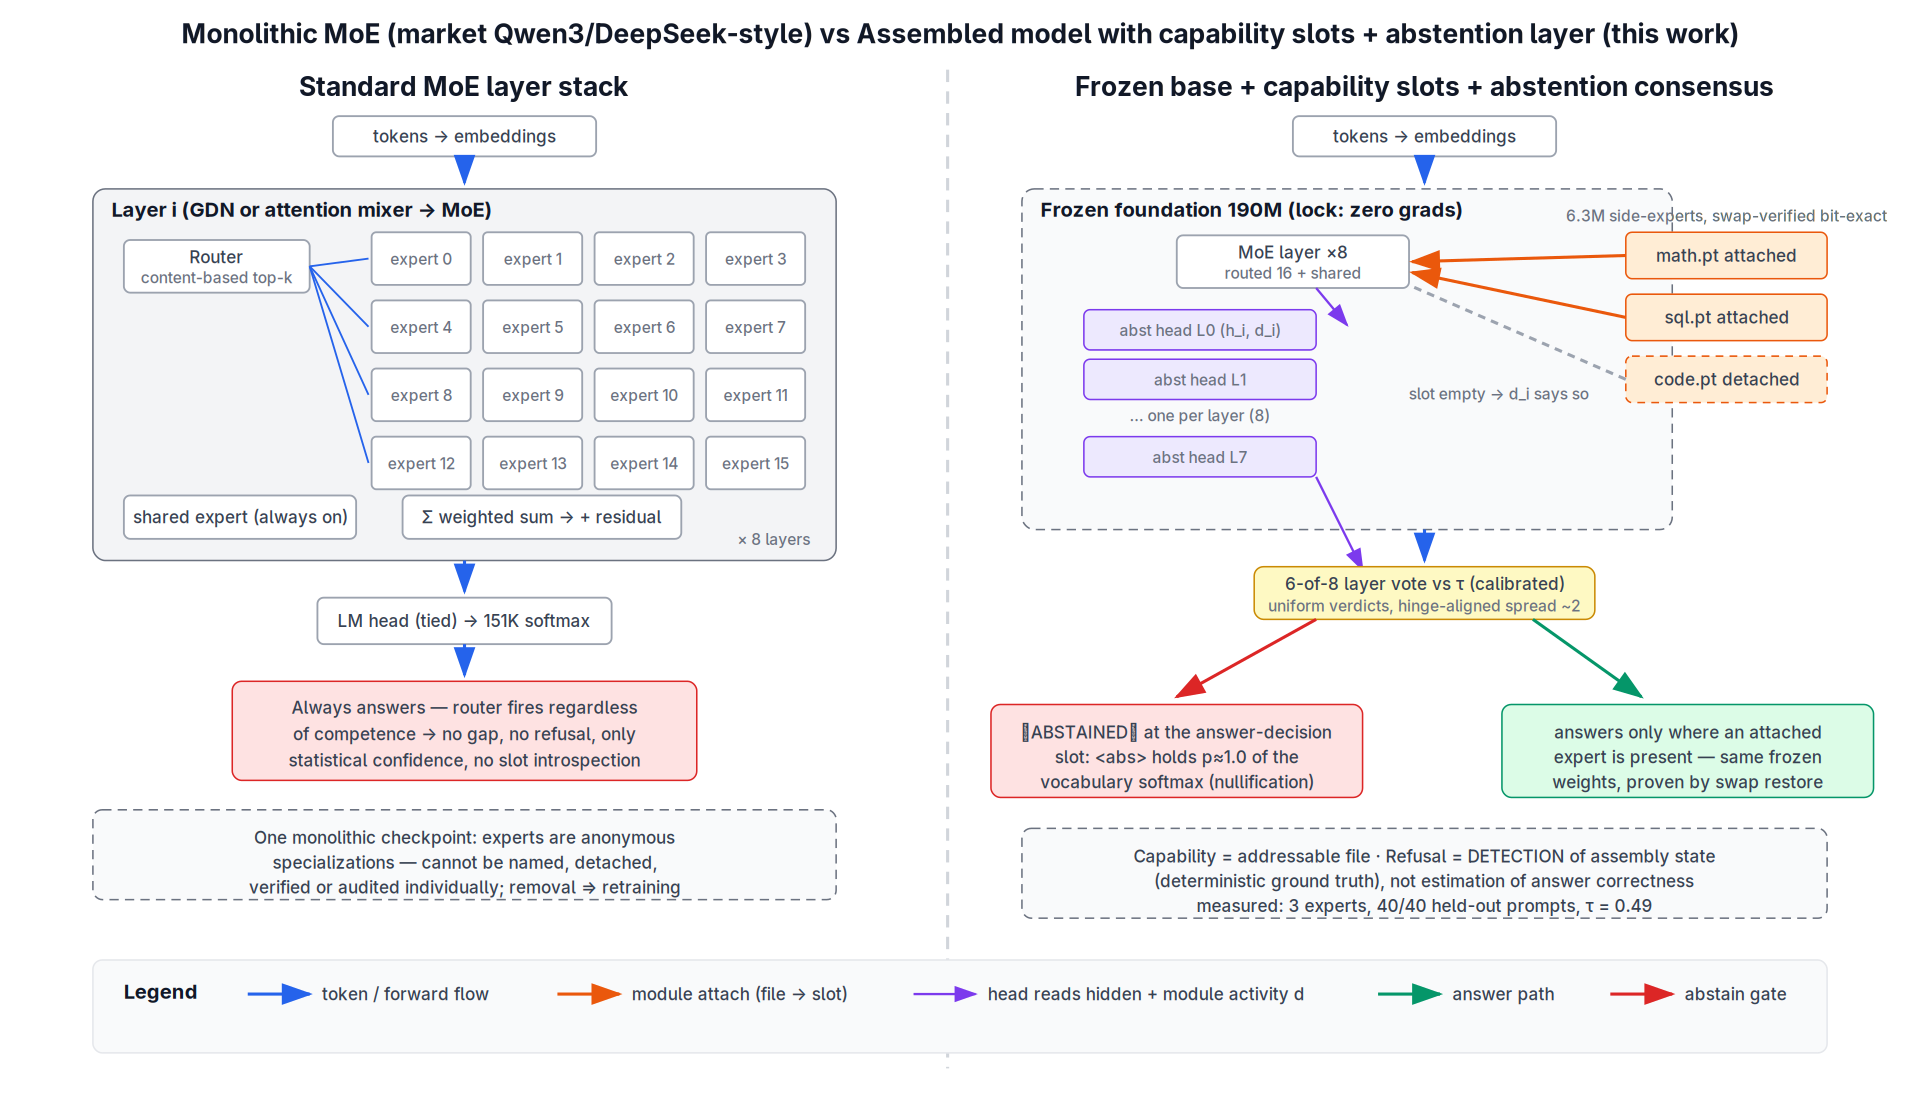
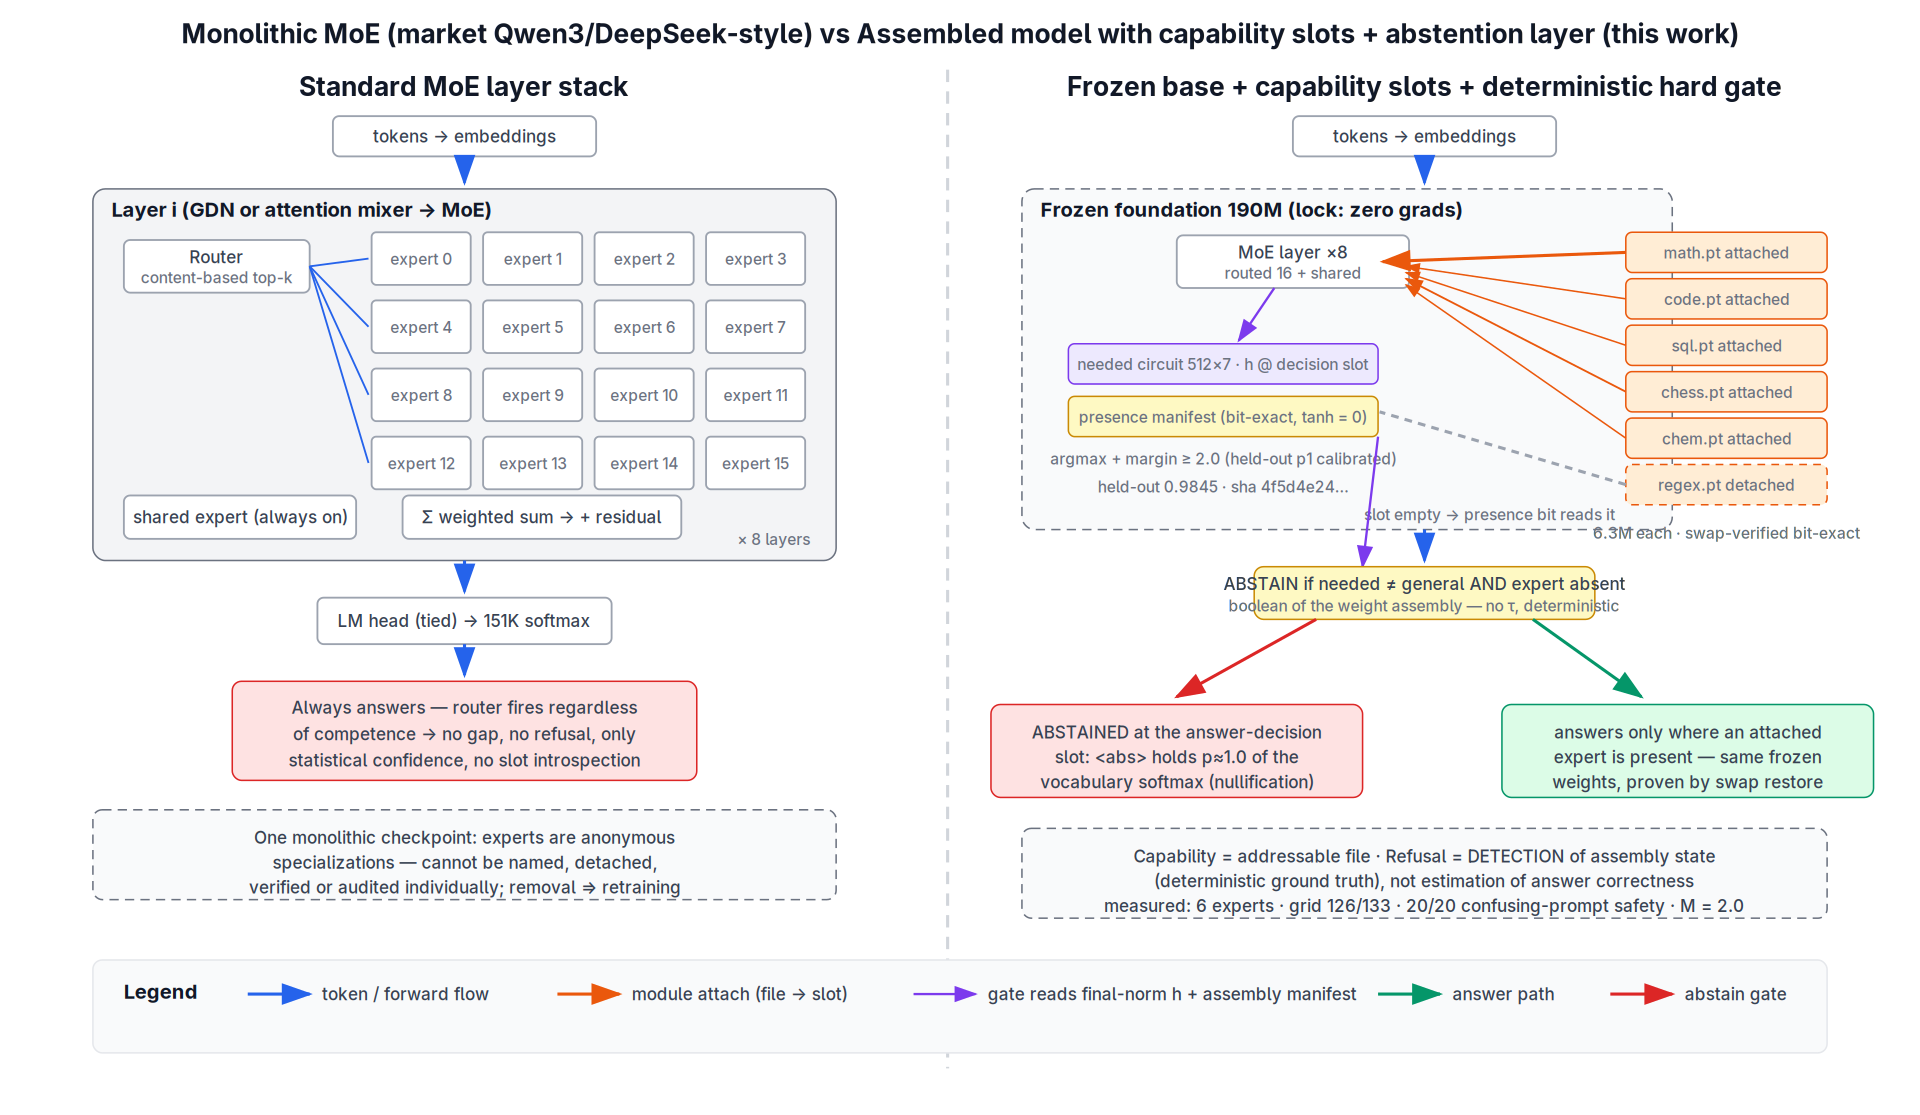
README+CHANGELOG: six-expert changelog, architecture diagram updated to v15 hard gate

diff --git a/CHANGELOG.md b/CHANGELOG.md
@@ -1,0 +1,87 @@
+# Changelog
+
+All milestones below were **measured**, not estimated; raw JSONs live in
+`results/`. Versions refer to the experiment ladder in `src/`.
+
+## 2026-11-10 — v15: six experts + shipped deterministic gate (current)
+
+**New capability experts (batch-1), same frozen base, same proof protocol:**
+
+| expert | dataset | loss off → on | gate-rezero purity | swap-restore |
+|---|---|---|---|---|
+| chess | Lichess/chess-puzzles | 11.1713 → 3.7844 | bit-exact | bit-exact |
+| chem | maykcaldas/smiles-transformers | 12.5142 → 7.3020 | bit-exact | bit-exact |
+| regex | qgallouedec/guess-the-regex | 12.5395 → 1.7448 | bit-exact | bit-exact |
+
+Together with the earlier math (11.15 → 7.17), code (9.54 → 6.68) and sql
+(11.75 → 5.44) modules, the library is now **6 named, file-addressable
+experts**, each independently attachable/detachable with zero training.
+
+**Gate architecture change (v13 → v15, shipped):**
+- circuit retrained from scratch for 7 classes: `nn.Linear(512, 7)` on the
+  final-norm hidden state at the answer-decision slot, collected across all
+  7 module worlds; held-out accuracy **0.9845**, sha256 `4f5d4e24ebb7746c`.
+- commit margin **re-calibrated on held-out data only** (never on the eval
+  grid): true-positive domain margins p1 = 1.96 → **M = 2.0**. The previous
+  M = 4 was a 4-class artifact; at 7-way arity it silently blocked correct
+  commits (chem never answered).
+- decision rule unchanged: `ABSTAIN ⟺ needed ≠ general ∧ ¬present(needed)`
+  — presence is a bit-exact boolean of the weight assembly (detached tanh
+  gates measure exactly 0.0), so refusal is detection, not estimation.
+
+**Measured results:** grid **126/133** (7 assemblies, replayed 3× bit-identical);
+confusing-prompt stress **20/20 abstain** on the empty assembly including 8 new
+cross-domain traps; 5 risky commitments with experts attached (documented trade
+of M 4 → 2). Known residual: hand-written SQL prompt templates drift from the
+training-pool shape and read as `code` → safe over-abstention; pool-shaped held-out
+SQL routes 100 %.
+
+**Repo packaging:** the merged 6-expert bundle (151 MB) exceeds GitHub's
+100 MB file limit — shipped instead as `checkpoints/module_bundles_merged.pt`
+(math/code/sql) + `lib10_chess.pt` + `lib10_chem.pt` + `lib10_regex.pt`;
+the library is their union (`abstention_v15.py` composes them automatically).
+
+## 2026-11-09 — v13 hard gate + v14 negative result
+
+- **v13** replaced the soft per-layer score + threshold τ with the
+  circuit-argmax × presence-boolean hard gate: **40/40** grid (3 experts),
+  determinism 3×, auditable 16-row truth table; OOD cost honestly logged
+  (prose-shaped prompts can mislabel `needed`).
+- Margin sweep on 12 confusing prompts → shipped **v13 + M4** at the time
+  (13 risky commitments remained; risky vs correct margin distributions
+  overlap).
+- **v14** (router-free expert self-verification, no circuit): **failed, 18/40**
+  — kept as a negative result. Lessons: self-confidence is fluency, not
+  verification; and zeroing the v11 soft layer breaks the code module, so
+  capability modules trained in-stack depend on the assembly they live in.
+
+## 2026-11-08/09 — v11 soft gate and ablations
+
+- **v11**: per-layer abstention heads reading hidden state + attached-module
+  activity; two-world byte-identical decision spans; **39/40** grid,
+  40/40 instrumented held-out (`<abs>` p ≈ 1.0000 when firing), τ = 0.49.
+- **v12/v12b** (not shipped): layer-uniform "confident" consensus ablation —
+  spread penalty collapses separation (0.55) or, as a hinge, costs 2-4 grid
+  cells; verdict is hoarded in the max-margin layer.
+
+## 2026-11-07/08 — foundation + surgery
+
+- Mini Qwen3.8-Flash-Next (~196.5 M): 3:1 GDN/attention hybrid, 4-branch
+  gated residuals (HyperConnections-style), fine-grained MoE + shared expert;
+  TinyStories 2000 steps, loss **11.93 → 3.28**.
+- Weight-space surgery: router-entropy profiling, structural expert pruning,
+  clone-injection, task-vector (λ = 0.3) experiments.
+- **v3**: first swappable side-expert bundles (math/code), unit-RMS output +
+  tanh-bounded gates; swap-restore bit-exactness established (7.1725);
+  median-of-demos robustness; expert cosine distance 0.61 (real divergence).
+- sql module added (5.44/11.75, both directions bit-exact).
+
+## Architecture evolution (summary)
+
+| era | refusal mechanism | ground truth |
+|---|---|---|
+| v5–v11 | soft per-layer head + τ | learned score (calibrated) |
+| v12/v12b | + uniformity penalty | learned consensus (rejected) |
+| v13 | linear circuit argmax × presence | assembly = deterministic half |
+| v13+M4 | + top1−top2 margin | held-out calibration (4-class) |
+| **v15** | 7-class circuit, M=2.0 held-out p1 | **assembly + margin (shipped)** |

diff --git a/README.md b/README.md
@@ -10,8 +10,10 @@ gates on whether the competent expert is physically attached**.
 Existing abstention work estimates *what a model knows* (confidence, refusal tuning).
 This experiment implements something different: *which model is currently assembled*.
 Remove an expert module and the model declines to answer; attach it and the same
-frozen weights answer. The refusal decision is made by a trained network layer reading
-module-activity vectors — not by a prompt, not by a threshold on logits.
+frozen weights answer. The refusal decision is a boolean of two things: a trained
+linear circuit on the final hidden state (*needed*) and the bit-exact assembly
+manifest (*present*) — deterministic, auditable, and now scaled to **six experts**
+([CHANGELOG](CHANGELOG.md)).
 
 ![architecture vs market MoE](results/figures/architecture_vs_market_moe.png)
 
@@ -37,6 +39,10 @@ One side-expert per MoE layer (8 layers, ~6.3M trainable, bounded gate), domain-
 | code | 4.83 | 9.24 | **6.68** | — |
 | sql | 6.81 | — | — | **5.44** |
 
+Batch-1 (2026-11-10) adds **chess** 11.17→**3.78**, **chem** 12.51→**7.30**,
+**regex** 12.54→**1.74** — same protocol, same bit-exact purity/swap proofs
+(see *Batch-1: six experts* below).
+
 **Swap proofs (zero training, pure weight file I/O):**
 - restoring the math bundle reproduced **7.1725** bit-exactly;
 - the sql module's gate, re-zeroed, reproduced base loss **11.7497** exactly (nothing
@@ -45,7 +51,7 @@ One side-expert per MoE layer (8 layers, ~6.3M trainable, bounded gate), domain-
 
 ![module loss matrix](results/figures/module_loss_matrix.png)
 
-### 4. Capability-gated abstention — 3 experts, grid **39/40**
+### 4. Capability-gated abstention — 3 experts, grid **39/40** *(soft-gate era, superseded by v13/v15 below)*
 A trained head per MoE layer reads hidden state **and the attached module's activity
 vector**; averaged score `z` vs held-out-calibrated threshold τ ⇒ `⟦ABSTAINED⟧`
 suppresses generation at the answer-decision point.
@@ -85,6 +91,7 @@ gate, honestly reported.
 ## Repository layout
 
 ```
+CHANGELOG.md                # measured milestone history (v3 -> v15)
 src/
   train_and_experiment.py   # stage 1+2: foundation training + profiling/prune/inject/task-vector
   train_module_experts.py   # stage 3: frozen base + swappable math/code modules
@@ -112,6 +119,8 @@ export OMP_NUM_THREADS=16 MKL_NUM_THREADS=16
 venv/bin/python -u src/train_and_experiment.py   # ~4 h GPU, writes checkpoints/ckpt_final.pt
 venv/bin/python -u src/train_module_experts.py   # ~25 min
 venv/bin/python -u src/train_sql_module.py       # ~15 min
+venv/bin/python -u src/train_batch1_modules.py   # ~2.5 h: chess, chem, regex experts
+venv/bin/python -u src/abstention_v15.py         # six-expert gate + 133-cell grid + stress (~45 min)
 venv/bin/python -u src/abstention_v11.py         # ~45 min (resumes shipped bundles)
 venv/bin/python -u src/make_figures.py
 ```
